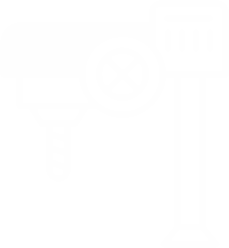
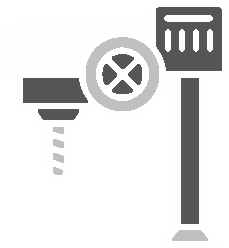
update images, make upgrade rows shorter, remove ship tab

Changed region(s): [[0.0917, 0.0282, 0.9782, 0.9879]]

diff --git a/main.css b/main.css
@@ -109,7 +109,7 @@ body {
     overflow: hidden;
 }
 .tab button {
-    line-height: 8vh;
+    line-height: 6vh;
     float: left;
     border: none;
     outline: none;
@@ -119,7 +119,7 @@ body {
     color: white;
     border-bottom: 1px solid white;
     border-left: 1px solid white;
-    height: 8vh;
+    height: 6vh;
 }
 .tab button:first-child {
     border-left: none;
@@ -137,7 +137,7 @@ body {
     padding: 5px;
     border-top: none;
     color: white;
-    max-height: 32vh;
+    max-height: 34vh;
     box-sizing: border-box;
     overflow: scroll;
     -ms-overflow-style: none;
@@ -155,10 +155,11 @@ body {
 }
 .upgradeTable tr:hover {
     background-color: #ffffff30;
+    cursor: pointer;
 }
 .upgradeTable td {
-    padding-top: 2vh;
-    padding-bottom: 2vh;
+    padding-top: 1vh;
+    padding-bottom: 1vh;
 }
 .upgradeTableIcon {
     width: 10%;
@@ -167,7 +168,7 @@ body {
     width: 25%;
     text-align: center;
     font-weight: bold;
-    font-size: large;
+    font-size: 2vh;
 }
 .upgradeTableDesc {
     width: 45%;
@@ -178,7 +179,7 @@ body {
 .upgradeTableOwned {
     width: 10%;
     text-align: center;
-    font-size: medium;
+    font-size: 1.75vh;
 }
 
 #comms {

diff --git a/index.html b/index.html
@@ -17,14 +17,9 @@
         <div id="topContainer">
             <div id="upgradesContainer">
                 <div class="tab">
-                    <button class="tablinks" onclick="selectTab(event, 'shipUpgradeTab')">Ship Upgrades</button>
                     <button class="tablinks" onclick="selectTab(event, 'pumpUpgradeTab')">Pump Upgrades</button>
                     <button class="tablinks active" onclick="selectTab(event, 'toolUpgradeTab')">Tool Upgrades</button>
                     <button class="tablinks" onclick="selectTab(event, 'drillUpgradeTab')">Drill Upgrades</button>
-                </div>
-
-                <div id="shipUpgradeTab" class="tabcontent">
-                    <table id="shipUpgradeTable" class="upgradeTable"></table>
                 </div>
 
                 <div id="pumpUpgradeTab" class="tabcontent">

diff --git a/main.ts b/main.ts
@@ -399,7 +399,7 @@ class Upgrade {
                 } else {
                     needLineBreak = true;
                 }
-                costCell.innerHTML += resource + ": " + numFormat(this.costs[resource as keyof ResourceObj<number>]);
+                costCell.innerHTML += resource[0] + ":&nbsp;" + numFormat(this.costs[resource as keyof ResourceObj<number>]);
             }
         }
 
